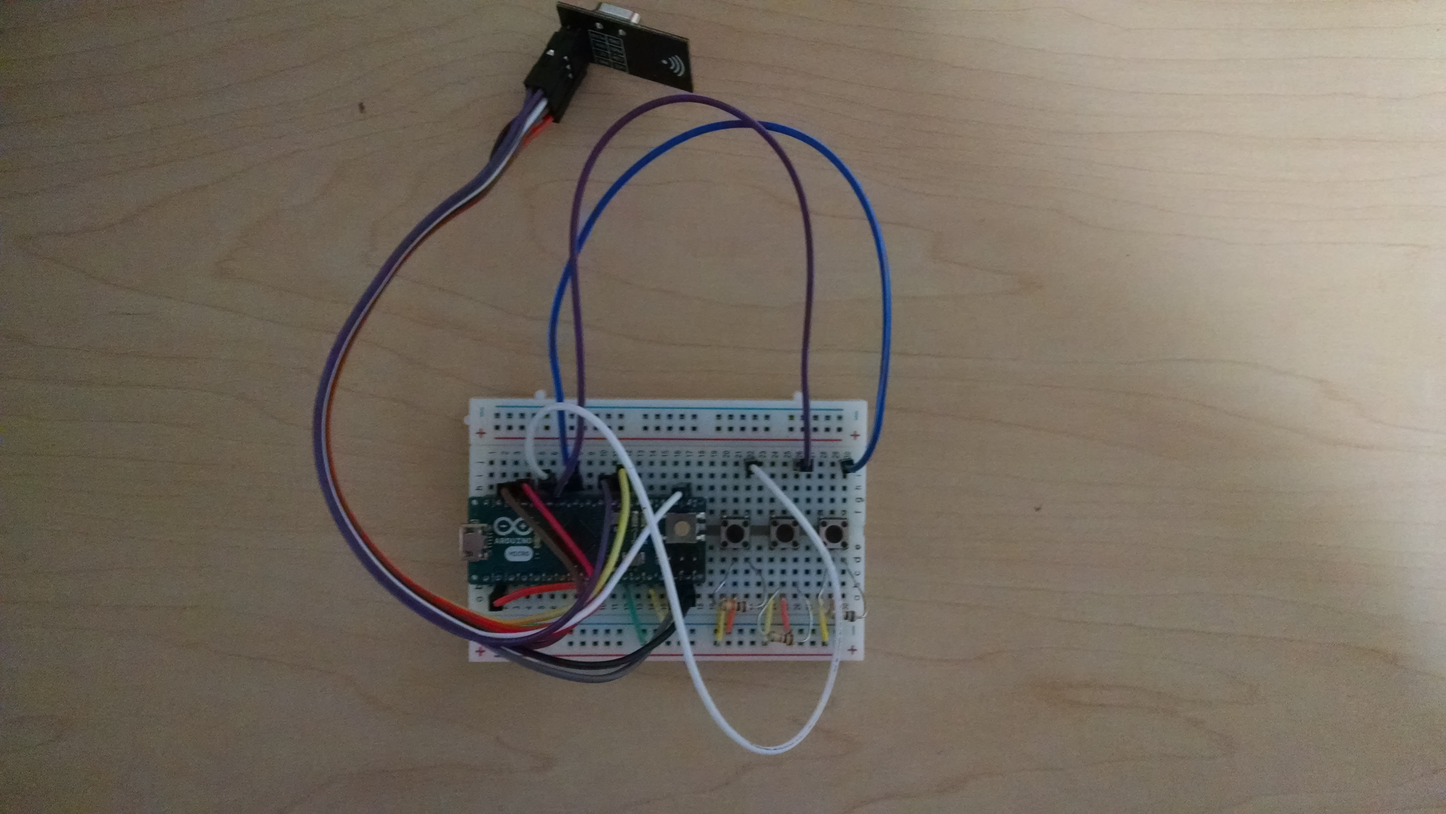
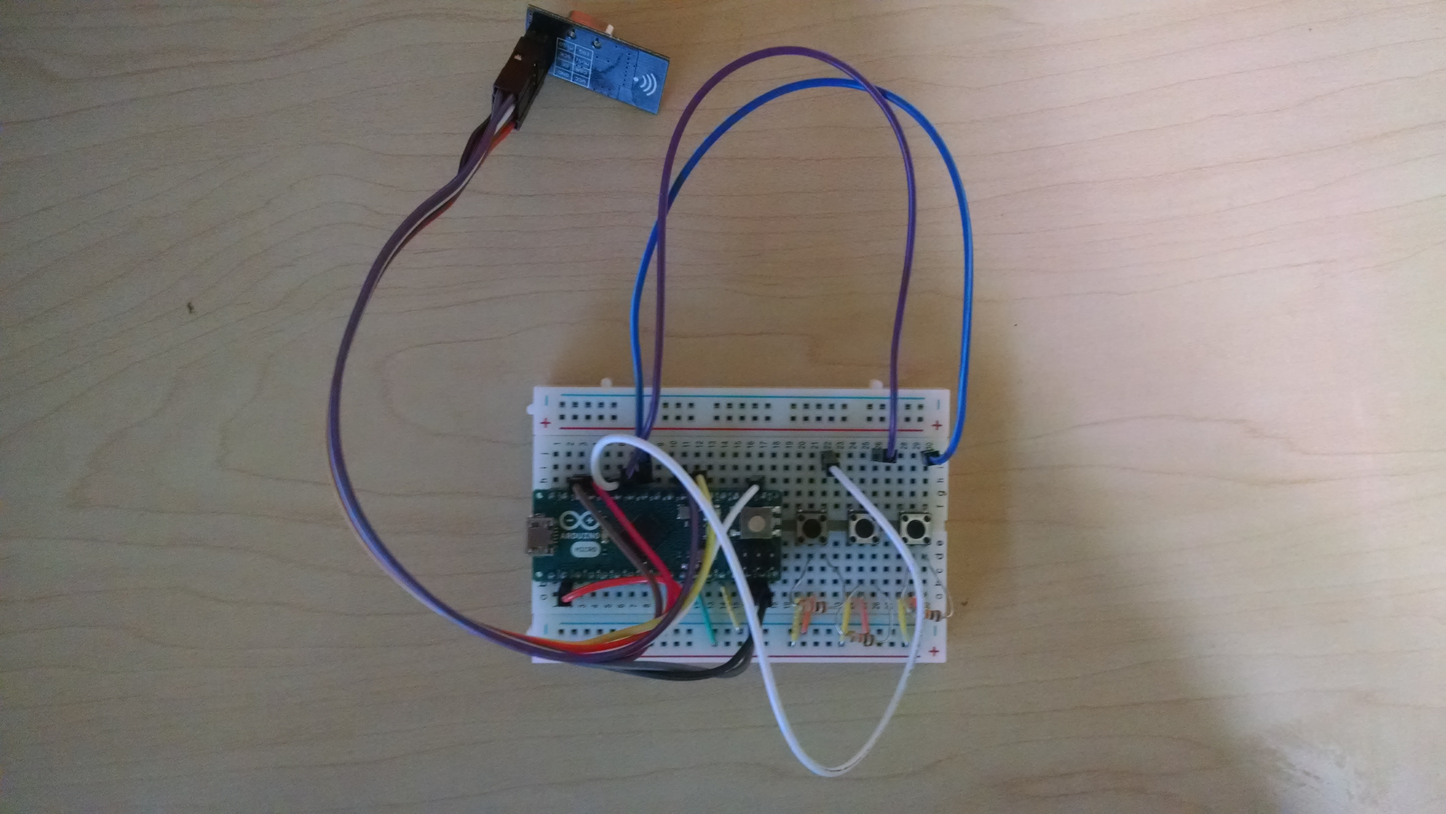
Updated photos and added breadboard layouts

diff --git a/_posts/2015-07-03-Arduino-Remote-Control.html b/_posts/2015-07-03-Arduino-Remote-Control.html
@@ -15,6 +15,15 @@ the factory remote for the Fire TV was boring.  So, I decided I should
 learn how to program Arduinos.
 </p>
 
+<p>
+For this post, I'm going to focus on setting up the wireless
+communcation between the Arduinos.  Ultimately, I will put the boards
+into a SNES controller, but for that I need to learn to solder.  In
+addition, the power draw of the micro is too high to make a sufficient
+remote.  I will need to use a "barebones Arduino" to obtain this
+efficiency.  The latter parts will come in other posts.
+</p>
+
 <div id="outline-container-sec-1" class="outline-2">
 <h2 id="sec-1">Arduinos</h2>
 <div class="outline-text-2" id="text-1">
@@ -35,6 +44,13 @@ There are many different Arduino boards.  I decided to use the
 <a href="https://www.arduino.cc/en/Main/ArduinoBoardMicro">Arduino Micro</a> since they are capable as acting as a keyboard when
 plugged into USB.  More information about this can be found <a href="https://www.arduino.cc/en/Reference/MouseKeyboard">here</a>.
 </p>
+
+
+<div class="figure">
+<p><img src="{{site.baseurl}}/images/microQuarter.jpg" alt="microQuarter.jpg" width="40%" />
+</p>
+<p><span class="figure-number">Figure 1:</span> The Arduino Micro.</p>
+</div>
 </div>
 </div>
 
@@ -55,7 +71,19 @@ alternative to a microprocessor for the receiver node.
 With BLE not being a viable option, I opted to use a 2.4Ghz
 connection.  This turned out to be a much better option.  You can
 purchase the NRF24L01+ transceivers for a few dollars each and the
-range is great.  To interact with the transceivers I used the <a href="http://maniacbug.github.io/RF24/">RF24</a>
+range is great.
+</p>
+
+
+<div class="figure">
+<p><img src="{{site.baseurl}}/images/nrf24l01plusQuarter.jpg" alt="nrf24l01plusQuarter.jpg" width="40%" />
+</p>
+<p><span class="figure-number">Figure 2:</span> This is a NRF24L01+ transceiver.</p>
+</div>
+
+
+<p>
+To interact with the transceivers I used the <a href="http://maniacbug.github.io/RF24/">RF24</a>
 library.  There are many examples to show you how to use the library
 and to test your boards.
 </p>
@@ -66,20 +94,35 @@ and to test your boards.
 <h2 id="sec-3">Staging on the breadboard</h2>
 <div class="outline-text-2" id="text-3">
 <p>
-To make life easier, I picked up a couple breadboards to use during
-development.
+I picked up a couple breadboards to use during development.  Being
+able to easily move parts and wires around at will makes development
+much simpler.  I started out by just having three buttons: left
+arrow, right arrow, and return.
 </p>
 
 
 <div class="figure">
 <p><img src="{{site.baseurl}}/images/microOnBreadBoard.jpg" alt="microOnBreadBoard.jpg" width="40%" />
 </p>
-<p><span class="figure-number">Figure 1:</span> This is an Ardiuno Micro on a bread board</p>
+<p><span class="figure-number">Figure 3:</span> The Arduino Micro on the breadboard with the NRF24L01+ transceiver.</p>
 </div>
 
 
+<p>
+Here is the setup for the controller.
+</p>
+
 <div class="figure">
-<p><img src="{{site.baseurl}}/images/nrf24l01+.jpg" alt="nrf24l01+.jpg" width="40%" />
+<p><img src="{{site.baseurl}}/images/controller_bb.png" alt="controller_bb.png" width="40%" />
+</p>
+</div>
+
+<p>
+Here is the setup for the receiver.
+</p>
+
+<div class="figure">
+<p><img src="{{site.baseurl}}/images/receiver_bb.png" alt="receiver_bb.png" width="40%" />
 </p>
 </div>
 </div>
